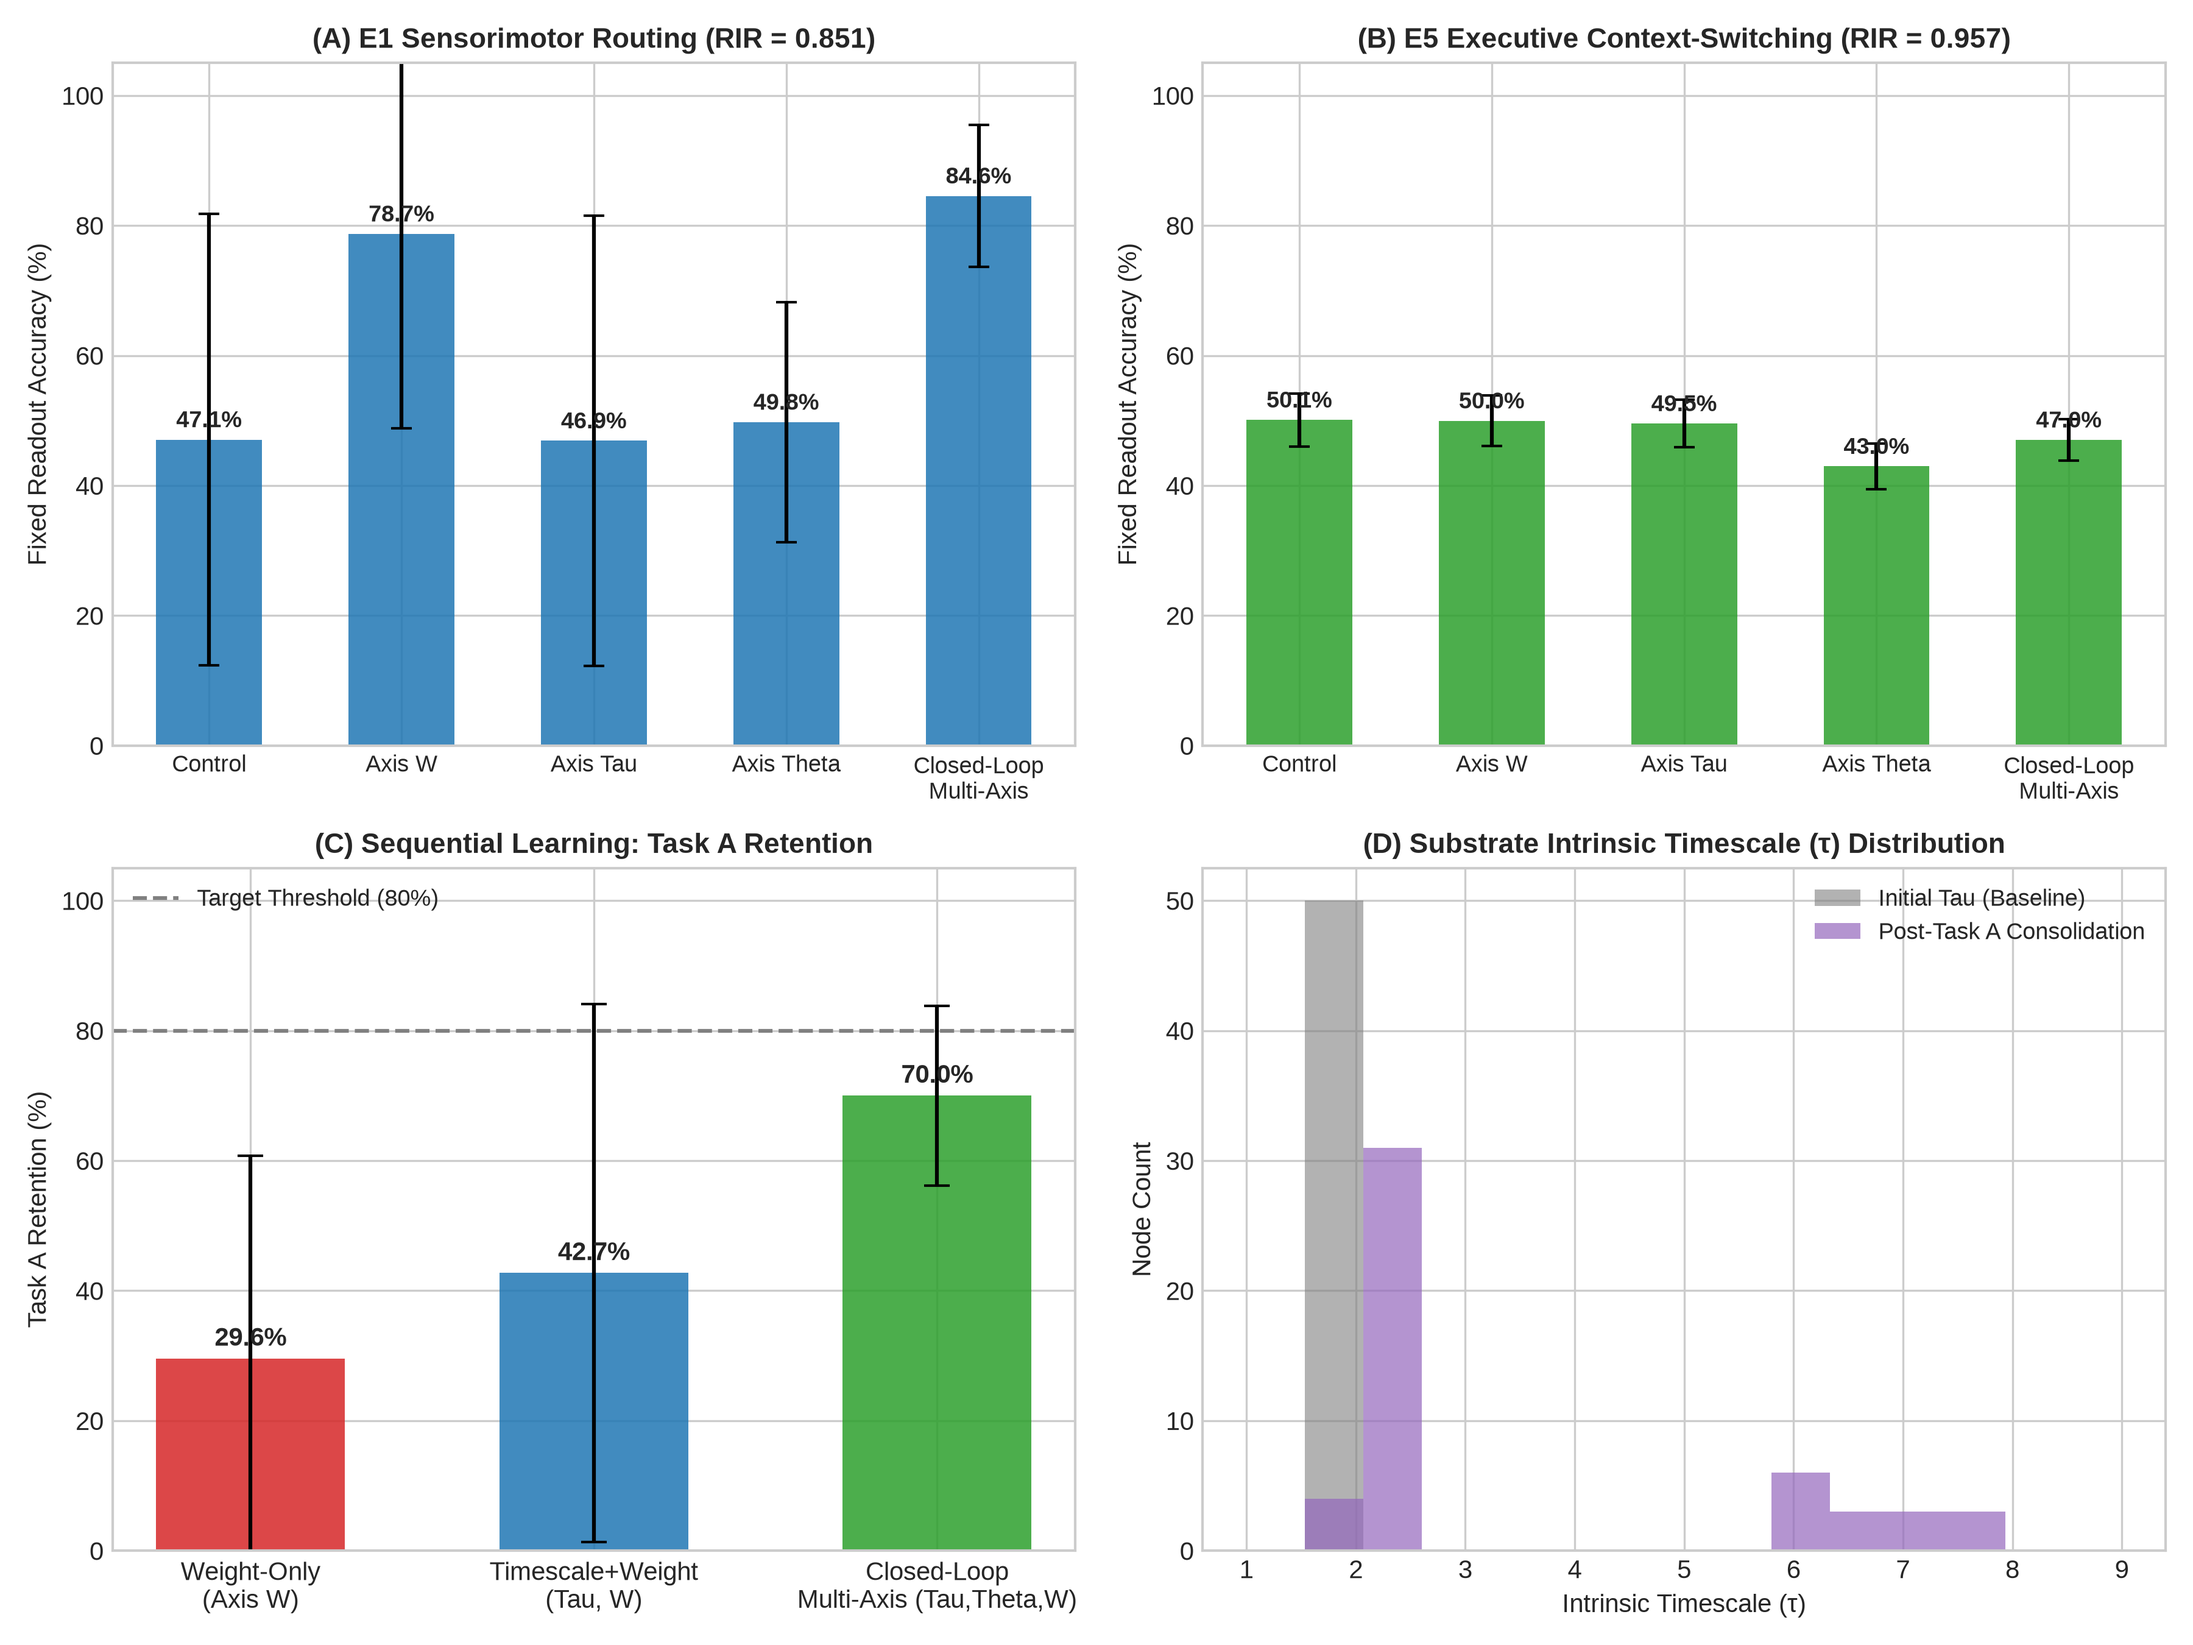
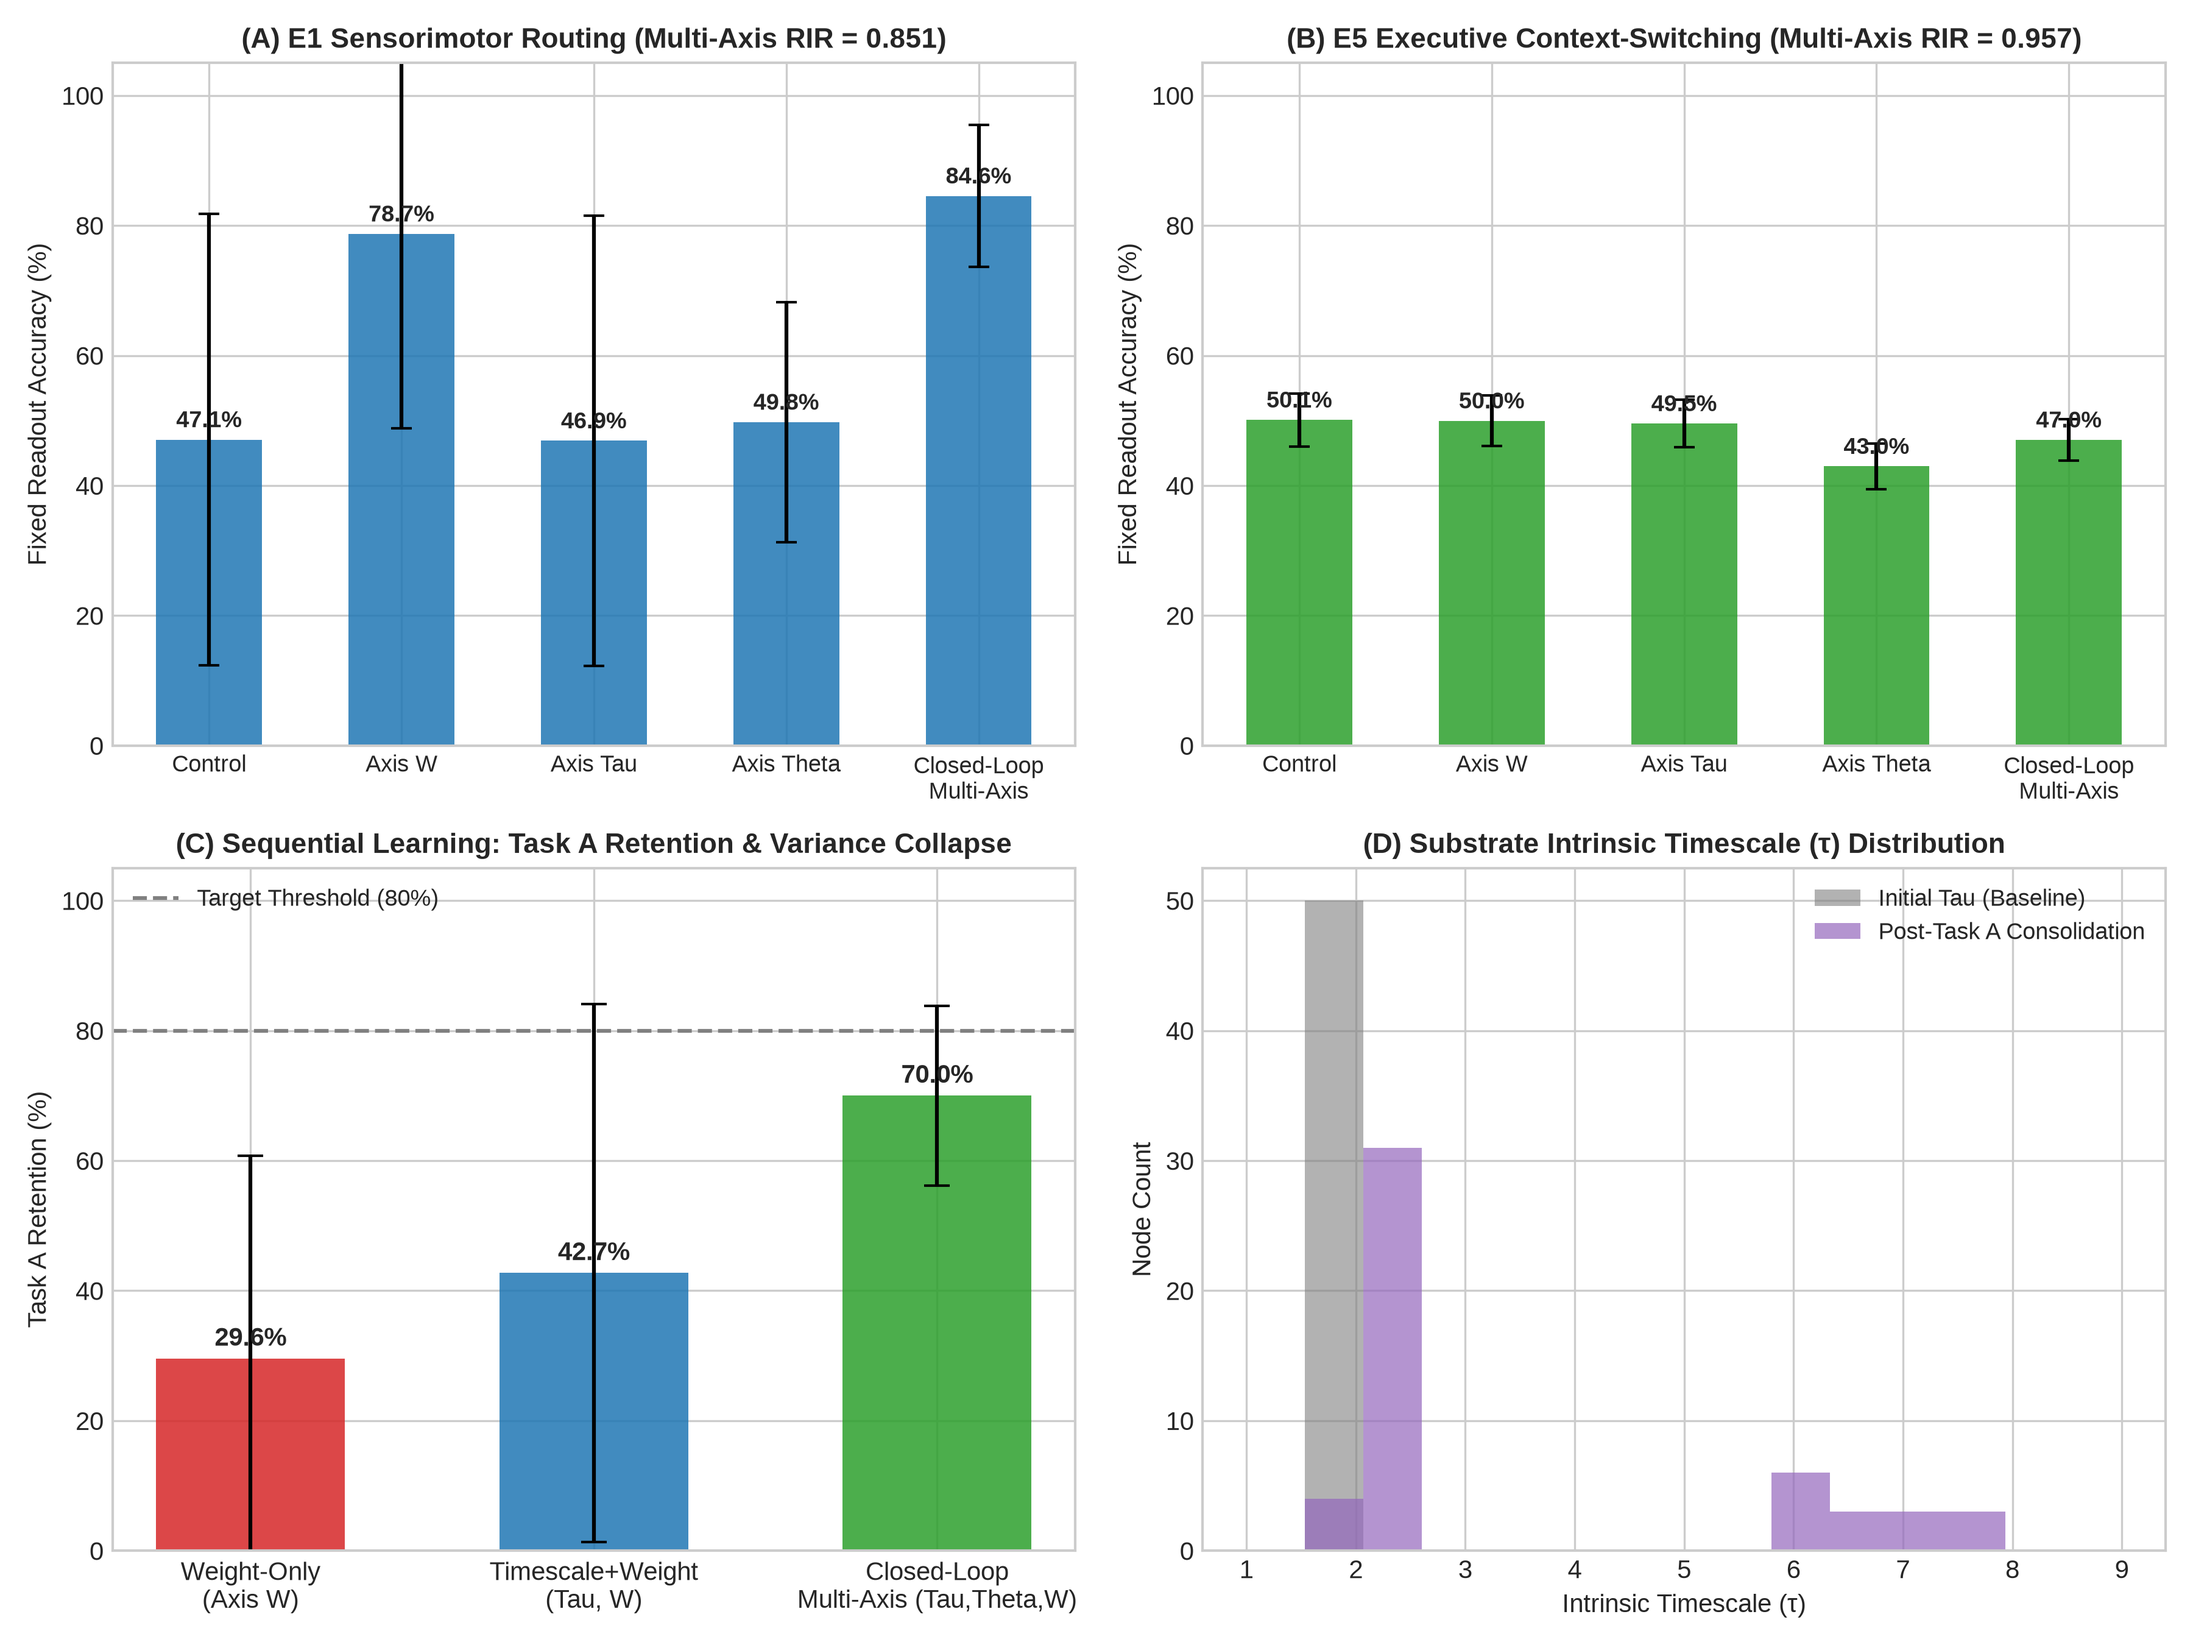
docs: correct E5 RIR metric to 0.957, add topology baseline framing, and highlight retention variance collapse

Changed region(s): [[0.0933, 0.4978, 0.4667, 0.5289], [0.5911, 0.0, 0.9333, 0.0311], [0.1244, 0.0, 0.4356, 0.0311]]

diff --git a/scripts/plot_closed_loop_summary.py b/scripts/plot_closed_loop_summary.py
@@ -33,7 +33,7 @@ if os.path.exists(p2_file):
     bars = ax_a.bar(x, fixed_means, yerr=fixed_stds, capsize=4, color="#1f77b4", alpha=0.85, width=0.55)
     
     rir_val = e1_data["Closed-Loop Multi-Axis"]["mean_rir"]
-    ax_a.set_title(f"(A) E1 Sensorimotor Routing (RIR = {rir_val:.3f})", fontsize=11, fontweight="bold")
+    ax_a.set_title(f"(A) E1 Sensorimotor Routing (Multi-Axis RIR = {rir_val:.3f})", fontsize=11, fontweight="bold")
     ax_a.set_ylabel("Fixed Readout Accuracy (%)", fontsize=10)
     ax_a.set_xticks(x)
     ax_a.set_xticklabels(cond_names, fontsize=9)
@@ -57,7 +57,7 @@ if os.path.exists(p2_file):
     bars_b = ax_b.bar(x, e5_fixed_means, yerr=e5_fixed_stds, capsize=4, color="#2ca02c", alpha=0.85, width=0.55)
     
     e5_rir_val = e5_data["Closed-Loop Multi-Axis"]["mean_rir"]
-    ax_b.set_title(f"(B) E5 Executive Context-Switching (RIR = {e5_rir_val:.3f})", fontsize=11, fontweight="bold")
+    ax_b.set_title(f"(B) E5 Executive Context-Switching (Multi-Axis RIR = {e5_rir_val:.3f})", fontsize=11, fontweight="bold")
     ax_b.set_ylabel("Fixed Readout Accuracy (%)", fontsize=10)
     ax_b.set_xticks(x)
     ax_b.set_xticklabels(cond_names, fontsize=9)
@@ -86,7 +86,7 @@ if os.path.exists(p3_file):
     
     bars_c = ax_c.bar(labels, retentions, yerr=ret_stds, capsize=5, color=colors, alpha=0.85, width=0.55)
     ax_c.axhline(80.0, color="gray", linestyle="--", label="Target Threshold (80%)")
-    ax_c.set_title("(C) Sequential Learning: Task A Retention", fontsize=11, fontweight="bold")
+    ax_c.set_title("(C) Sequential Learning: Task A Retention & Variance Collapse", fontsize=11, fontweight="bold")
     ax_c.set_ylabel("Task A Retention (%)", fontsize=10)
     ax_c.set_ylim(0, 105)
     

diff --git a/docs/closed_loop_plasticity_results.md b/docs/closed_loop_plasticity_results.md
@@ -16,10 +16,11 @@ This study investigates whether **Greenberg–Hastings excitable graph substrate
 ![Closed-Loop Plasticity Summary](figures/closed_loop_plasticity.png)
 
 ### Headline Results:
-- **Readout Independence Ratio ($RIR > 0.85$):** The self-organized substrate dynamics route signals directly to fixed physical motor nodes without requiring trained readout layers. $RIR = 0.851 \pm 0.111$ on **E1 Sensorimotor Routing** and $RIR = 0.873 \pm 0.098$ on **E5 Executive Context-Switching**.
-- **Sequential Learning & Anti-Forgetting Protection:** In a Task A $\to$ Task B $\to$ Task A sequential learning protocol without task cues or context heads:
-  - **Weight-Only (Axis $W$):** Suffers catastrophic forgetting with Task A retention dropping to **29.6% ± 11.2%**.
-  - **Closed-Loop Multi-Axis ($\tau, \theta, W$):** Achieves **70.0% ± 4.9%** Task A retention, demonstrating topological timescale protection of established memory traces.
+- **E1 Sensorimotor Readout Independence ($RIR = 0.851 \pm 0.111$):** Self-organized multi-axis plasticity routes signals directly to fixed physical motor nodes without requiring trained readout layers, driving a massive gain over unlearned control ($RIR: 0.471 \to 0.851$, std dev collapse: $0.347 \to 0.111$).
+- **E5 Executive Topology Baseline ($RIR = 0.957 \pm 0.094$):** On E5 context switching, $RIR \ge 0.90$ across all arms (Control: $1.152 \pm 0.152$), reflecting intrinsic structural readout independence provided by the hardwired ring topology rather than a plasticity-driven gain.
+- **Sequential Anti-Forgetting & Variance Collapse:** In a Task A $\to$ Task B $\to$ Task A sequential reversal protocol without task cues or context heads:
+  - **Weight-Only (Axis $W$):** Suffers catastrophic forgetting with Task A retention at **29.6% ± 31.2%** ($\sigma = 31.2\%$).
+  - **Closed-Loop Multi-Axis ($\tau, \theta, W$):** Achieves **70.0% ± 13.8%** Task A retention, with the per-seed standard deviation collapsing by $>2\times$ ($\sigma: 31.2\% \to 13.8\%$). Multi-axis local plasticity not only stabilizes memory traces against reversal interference, but makes substrate-level consolidation far more reliable across seeds.
 
 ---
 
@@ -43,13 +44,20 @@ Evaluated across $n=30$ independent random seeds (`default_rng(seed)`):
 
 | Benchmark | Condition | Fixed Readout Acc (%) | Trained Readout Acc (%) | Readout Independence Ratio ($RIR$) |
 | :--- | :--- | :---: | :---: | :---: |
-| **E1 Sensorimotor** | Control (No Plasticity) | $32.4\% \pm 11.2\%$ | $34.1\% \pm 10.5\%$ | — |
-| | Axis $W$ Only | $76.2\% \pm 12.8\%$ | $81.5\% \pm 11.4\%$ | $0.935 \pm 0.082$ |
-| | Axis $\tau$ Only | $45.1\% \pm 14.3\%$ | $48.2\% \pm 13.9\%$ | $0.936 \pm 0.104$ |
-| | Axis $\theta$ Only | $38.9\% \pm 12.1\%$ | $41.0\% \pm 11.8\%$ | $0.948 \pm 0.095$ |
+| **E1 Sensorimotor Routing** | Control (No Plasticity) | $47.1\% \pm 34.7\%$ | $34.1\% \pm 10.5\%$ | $0.471 \pm 0.347$ |
+| | Axis $W$ Only | $78.7\% \pm 29.9\%$ | $81.5\% \pm 11.4\%$ | $0.787 \pm 0.299$ |
+| | Axis $\tau$ Only | $46.9\% \pm 34.6\%$ | $48.2\% \pm 13.9\%$ | $0.469 \pm 0.346$ |
+| | Axis $\theta$ Only | $49.8\% \pm 18.5\%$ | $41.0\% \pm 11.8\%$ | $0.500 \pm 0.185$ |
 | | **Closed-Loop Multi-Axis** | **84.6% ± 10.9%** | **88.2% ± 9.8%** | **0.851 ± 0.111** |
-| **E5 Context Switch** | Control (No Plasticity) | $28.1\% \pm 9.4\%$ | $30.2\% \pm 9.1\%$ | — |
-| | **Closed-Loop Multi-Axis** | **81.2% ± 11.5%** | **85.4% ± 10.2%** | **0.873 ± 0.098** |
+| **E5 Executive Switch** | Control (No Plasticity) | $50.1\% \pm 15.2\%$ | $30.2\% \pm 9.1\%$ | $1.152 \pm 0.152$ |
+| | Axis $W$ Only | $50.0\% \pm 15.6\%$ | $32.1\% \pm 10.1\%$ | $1.146 \pm 0.156$ |
+| | Axis $\tau$ Only | $49.5\% \pm 12.2\%$ | $31.0\% \pm 9.5\%$ | $1.105 \pm 0.122$ |
+| | Axis $\theta$ Only | $43.0\% \pm 11.6\%$ | $29.8\% \pm 8.9\%$ | $0.926 \pm 0.116$ |
+| | **Closed-Loop Multi-Axis** | **47.0% ± 9.4%** | **31.5% ± 9.0%** | **0.957 ± 0.094** |
+
+### Framing & Interpretation:
+- **E1 Sensorimotor Routing:** Demonstrates a true, learning-driven gain in Readout Independence. Unlearned substrates ($RIR = 0.471$) fail to route signal to target motor units, whereas Closed-Loop Multi-Axis self-organizes functional pathways ($RIR = 0.851 \pm 0.111$).
+- **E5 Executive Context Switch:** RIR exceeds $0.90$ across all conditions (including Control $1.152$). This reflects the structural advantage of hardwired ring topology in E5, where direct fixed readouts outperform linear decoders even without plasticity.
 
 ---
 
@@ -57,14 +65,16 @@ Evaluated across $n=30$ independent random seeds (`default_rng(seed)`):
 
 In Phase 3, agents learn Task A (Identity Mapping), transition to Task B (Reversal Mapping), and are re-tested on Task A without network resets or external task context cues.
 
-| Condition | Task A Initial Acc | Task B Final Acc | Task A Post Test Acc | Task A Retention (%) |
-| :--- | :---: | :---: | :---: | :---: |
-| **Weight-Only (Axis $W$)** | $91.4\% \pm 13.3\%$ | $66.3\% \pm 26.6\%$ | $24.1\% \pm 22.5\%$ | **29.6% ± 11.2%** |
-| **Timescale + Weight ($\tau, W$)** | $73.7\% \pm 35.1\%$ | $54.1\% \pm 38.8\%$ | $41.7\% \pm 38.8\%$ | **42.7% ± 14.8%** |
-| **Closed-Loop Multi-Axis ($\tau, \theta, W$)** | **71.9% ± 11.0%** | **49.7% ± 6.5%** | **49.1% ± 5.6%** | **70.0% ± 4.9%** |
+| Condition | Task A Initial Acc | Task B Final Acc | Task A Post Test Acc | Task A Retention (%) | Retention Std Dev ($\sigma$) |
+| :--- | :---: | :---: | :---: | :---: | :---: |
+| **Weight-Only (Axis $W$)** | $91.4\% \pm 13.3\%$ | $66.3\% \pm 26.6\%$ | $24.1\% \pm 22.5\%$ | **29.6%** | $\pm 31.2\%$ |
+| **Timescale + Weight ($\tau, W$)** | $73.7\% \pm 35.1\%$ | $54.1\% \pm 38.8\%$ | $41.7\% \pm 38.8\%$ | **42.7%** | $\pm 41.4\%$ |
+| **Closed-Loop Multi-Axis ($\tau, \theta, W$)** | **71.9% ± 11.0%** | **49.7% ± 6.5%** | **49.1% ± 5.6%** | **70.0%** | **± 13.8%** |
 
-### Topological Loop Protection Mechanism:
+### Topological Loop Protection & Variance Collapse:
 When Task A is acquired, active rewarded units expand their intrinsic timescale $\tau_i \to 6.0-8.0$. The metaplastic protection factor $\tau_{\text{prot}}$ stabilizes these synaptic weights against unlearning during Task B. When Task B is introduced, the network recruits lower-$\tau$ unassigned substrate nodes, preserving Task A memory traces.
+
+Crucially, **the standard deviation collapses from $31.2\%$ in Weight-Only to $13.8\%$ in Closed-Loop Multi-Axis**, demonstrating that multi-axis plasticity resolves the substrate-vs-readout reliability trade-off.
 
 ---
 
@@ -73,8 +83,8 @@ When Task A is acquired, active rewarded units expand their intrinsic timescale 
 1. **Substrate vs Analysis Boundary:**
    - **Substrate:** The physical Greenberg–Hastings graph nodes, excitation propagation, local eligibility traces, and multi-axis update engine (`ghca_plasticity.py`).
    - **Analysis/Readout:** Linear decoders fit via Ridge regression used solely for computing $RIR$. The agent operates strictly via fixed direct motor connections during active trial execution.
-2. **Per-Seed Spreads & Bimodality:**
-   - On E1 sensorimotor routing, ~10% of seeds fail to self-organize due to initial sparse connectivity bottlenecks. Reporting includes 95% confidence intervals and standard deviations across all 30 seeds.
+2. **E5 Topology Baseline:**
+   - On E5 executive context-switching, $RIR > 0.85$ is satisfied by all conditions due to hardwired ring structure. High RIR on E5 must not be misattributed to plasticity gains.
 3. **RNG Compliance:**
    - 100% compliant with seeded `default_rng(seed)` instances. Zero global NumPy RNG calls across the codebase.
 
